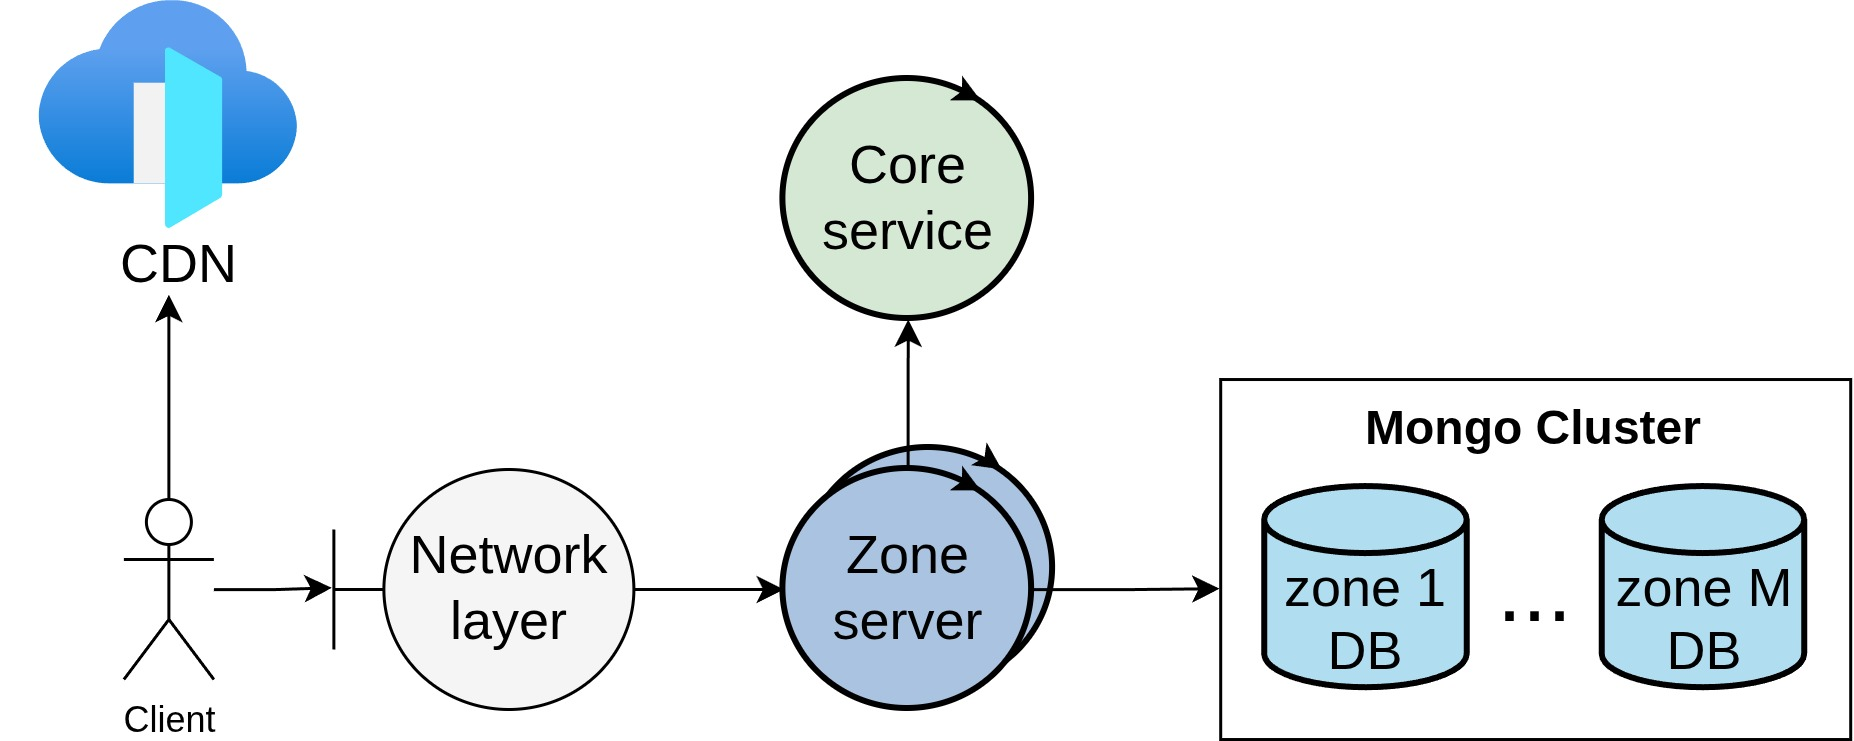
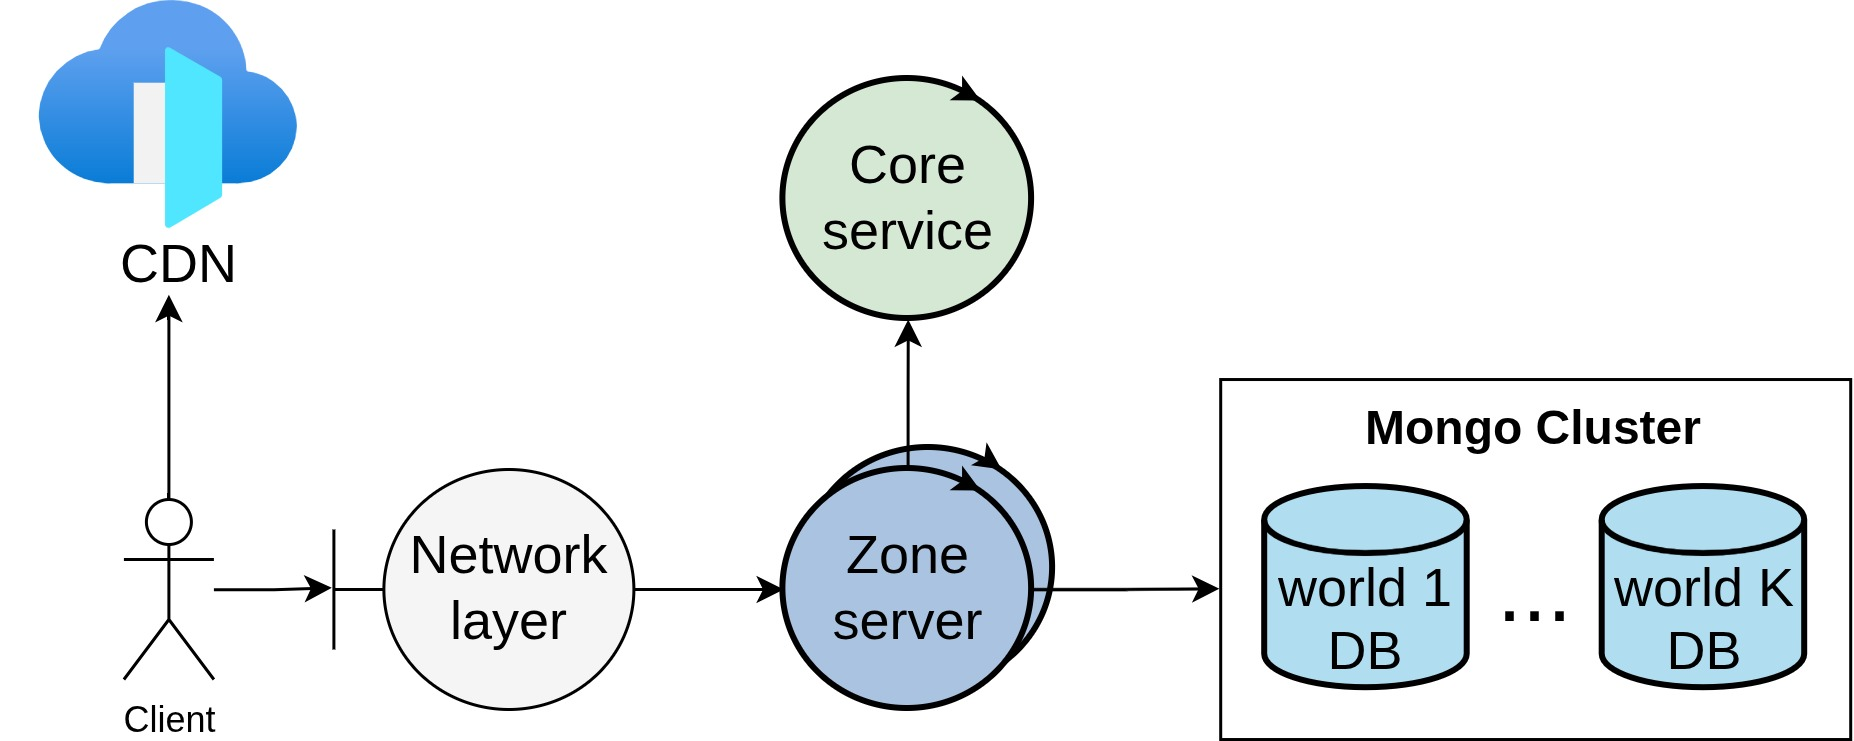
docs: add infrastructure subsection in devops section

Changed region(s): [[0.8608, 0.7449, 0.9838, 0.8381], [0.6764, 0.776, 0.7994, 0.8381]]

diff --git a/report/sections/08-implemented-solutions/devops/devops.tex b/report/sections/08-implemented-solutions/devops/devops.tex
@@ -117,6 +117,8 @@ los zoning servers (ftr-server) que se encuentran activos en ese momento.
 \caption{Visión general del 'workflow' de actualización de la imagen de los \textit{ftr-server}.}
 \end{figure}
 
+\subsubsection{Actualización de las aplicaciones 'Cliente'}
+
 \subsubsection{Infraestructura}
 
 A continuación se explica el estado actual de la infraestructura cuya especificación y configuración pertenece al repositorio
@@ -139,6 +141,8 @@ Las partes principales de la infraestructura son:
     \item \textbf{Registro de contenedores  - ECR}: Utilizado para almacenar las imágenes de docker de cada versión lanzada
         de cada servidor desplegable, y para el escaneo general automatizado de vulnerabilidades en las mismas.
     \item \textbf{PostgresDB - Supabase}: Base de datos PostgresSQL alojada en \textit{Supabase} a ser utilizada por el core-service.
+    \item \textbf{MongoDB - Mongo Atlas}: Base de datos Mongo utilizada por los 'zoning servers' para persistir información de los jugadores
+        en los mundos. Se crea una base de datos por mundo dentro del mismo \textit{cluster}.
     \item \textbf{Firewall - Security Groups}: Whitelist de puertos que permiten tráfico entrante o saliente para cada tipo de nodo.
     \item \textbf{Permisos \& Roles - IAM}: Configuración de roles para cada tipo de nodo o usuario y permisos específicos
         y mínimos para los mismos.
@@ -146,11 +150,34 @@ Las partes principales de la infraestructura son:
         lanzados al inicio de cada nodo.
 \end{itemize}
 
+En la siguiente figura se puede apreciar algunos de los componentes mencionados, como están separados a nivel físico, qué servicios alojan y como se conectan entre sí.
+
+También se puede notar la intercomunicación de los nodos de tipo 'nomad client', esto es crucial para el funcionamiento del descubrimiento de
+servicios por nombre. Tanto esto como el flujo de despliegue de nuevos 'zoning servers' se aborda en detalle a continuación.
+
 \begin{figure}[H]
 \centering
 \includegraphics[width=1\textwidth]{img/08-implemented-solution/devops/deployment.jpg}
 \caption{Vista general de la infraestructura desplegada.}
 \end{figure}
+
+Los clientes interactuan con los servicios desplegados de dos formas principales:
+\begin{enumerate}
+    \item A través de un \textit{API Gateway} (\textit{Nginx} en este caso) que se encarga de gestionar las conexiones seguras mediante TLS
+        utilizando certificados administrados y renovados por \textit{Certbot}, de validar el tamaño de los archivos enviados,
+        y de enrutar los requests al core-service.
+    \item Por socket para una comunicación directa con los servidores del juego con el objetivo de disminuir la latencia/\textit{overhead}
+        de un 'gateway' o balanceador de carga.
+\end{enumerate}
+
+En cuanto al servicio backend web \textbf{core-service}, este recibe peticiones de parte de los usuarios ya sea tanto jugadores como administradores,
+y utiliza para resolver las mismas una serie de dependencias como lo son:
+\begin{itemize}
+    \item Base de datos PostgresSQL alojada en Supabase y contra la cual se ejecutan las consultas relacionales.
+    \item Buckets de \textbf{'cosmetics'} y \textbf{'content'} para almacenamiento de imágenes png y modelos 3D cuyas URIs
+        son guardadas en la base de datos por el core-service. A su vez utiliza archivos temporales para evitar mantener en memoria
+        los archivos siendo subidos en su totalidad.
+\end{itemize}
 
 \begin{figure}[H]
 \centering
@@ -158,11 +185,38 @@ Las partes principales de la infraestructura son:
 \caption{Diagrama del uso del core-service y sus dependencias.}
 \end{figure}
 
+Por otro lado, el despliegue de nuevos 'zoning servers' inicia cuando un cliente de tipo 'creador' activa una o varias zonas pertenecientes a un mundo
+a través del core-service.
+Cuando core-service recibe esta request (luego de hacer las validaciones corresponientes), genera una especificación de \textit{Nomad Job} a partir de un
+template detallado preliminarmente, para luego comunicarse de forma interna con el servicio de \textbf{Nomad server} el cual se encuentra ejecutandose 
+en el mismo nodo (aunque no necesariamente) y enviarle dicha especificación.
+Una vez el Nomad server obtiene el \textit{Job}, este consulta su registro de nodos cliente (quienes envian heartbeats periodicamente para notificar su estado al server)
+y decide por medio de un proceso de \textit{scheduling} el nodo que debe alojar el nuevo servidor.
+El nodo cliente seleccionado, entonces obtiene la imagen de docker desde el registro de contenedores y lo ejecuta con los parametros necesarios
+como el \textit{ID} del mundo y de la zona activada.
+
+Este proceso se podria hacer mas tolerante a fallos agregando nuevos \textit{Nomad servers}, ya que en el caso donde hay más de estos,
+se utiliza el algoritmo \textit{RAFT} para mantener un consenso de los \textit{schedules} y las asignaciones.
+
 \begin{figure}[H]
 \centering
 \includegraphics[width=0.6\textwidth]{img/08-implemented-solution/devops/nomad-robust.jpg}
 \caption{Flujo de despliegue e inicio de zone server.}
 \end{figure}
+
+Para llevar a cabo el descubrimiento de las direcciones de los 'zoning servers' una vez ya estan desplegados se utiliza la herramienta \textbf{Consul}.
+
+La misma requiere de la existencia de al menos un \textit{Consul server} (desplegado en el mismo nodo donde está el Nomad server) y de \textit{Consul clients}.
+Los Consul clients utilizan un algoritmo de comunicación por \textit{Gossip} o 'Chisme', seleccionando aleatoriamente nodos de Consul a los que les enviara
+la información del estado y la dirección (IP y puerto) de los servicios que conoce por nombre, y de esta forma la información se propaga exponencialmente en la red interna 
+de Consul y llegan a su vez a los Consul servers, quienes mantienen un registro de los cambios de estado de los servicios desplegados.
+
+Esta es la razon porque en la primera figura de esta sección se mencionó la intercomunicación de nodos de tipo \textit{'Nomad client node (N)'}, y de
+esta forma se logra tener una fuente confiable de \textit{Service Discovery} para poder resolver las peticiones de los usuarios por direcciones
+de los zoning servers utilizando el \textit{ID} del mundo y la zona como nombre de servicio.
+
+Similarmente con los \textit{Nomad servers}, se podria mejorar la tolerancia a fallos del sistema de descubrimiento agregando nuevos \textit{Consul servers},
+ya que los mismos también usan el algoritmo \textit{RAFT} para mantener consenso entre ellos.
 
 \begin{figure}[H]
 \centering
@@ -170,10 +224,15 @@ Las partes principales de la infraestructura son:
 \caption{Flujo de descubrimiento de dirección de zone server (por mundo y zona).}
 \end{figure}
 
+Finalmente, una vez que el jugador ya obtiene la dirección del servidor en el que desea jugar, este se comunica con el mismo
+a través de la capa de red del juego (Utilizando UDP como base).
+A partir de ese momento el jugador envía sus comandos y el servidor le responde con estados de juego o eventos (tal como se menciona en la sección de \textit{Netwoking} del juego),
+a su vez el zoning server almacena la información del jugador en la base de datos Mongo perteneciente al mundo y alojada en \textit{Mongo Atlas}.
+
 \begin{figure}[H]
 \centering
 \includegraphics[width=0.65\textwidth]{img/08-implemented-solution/devops/game-robust.jpg}
 \caption{Diagrama de uso de zone server y sus dependencias \textit{(cliente in-game)}.}
 \end{figure}
 
-\subsubsection{Actualización de las aplicaciones 'Cliente'}
+\subsubsection{Manejo de secretos y credenciales privadas}
